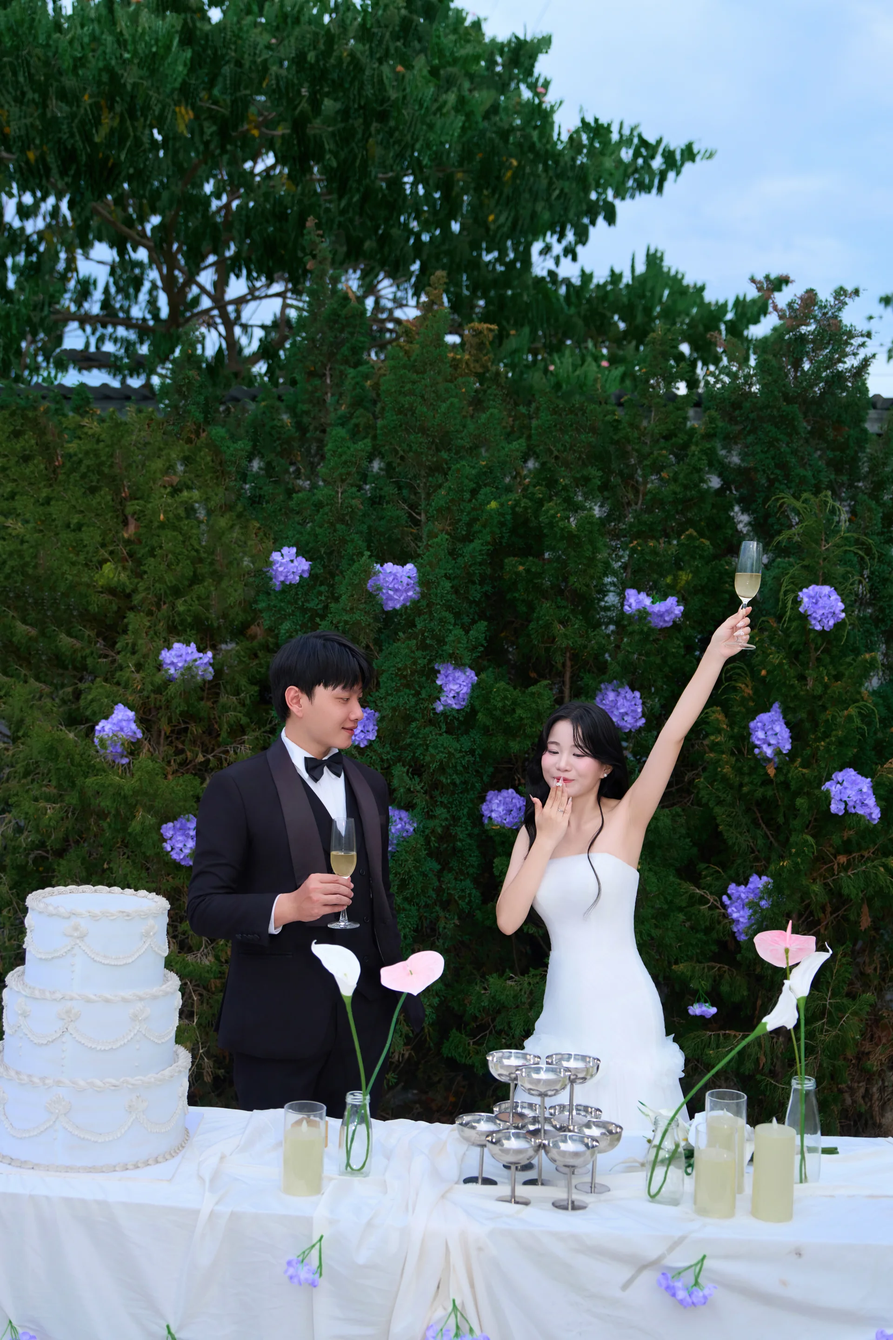
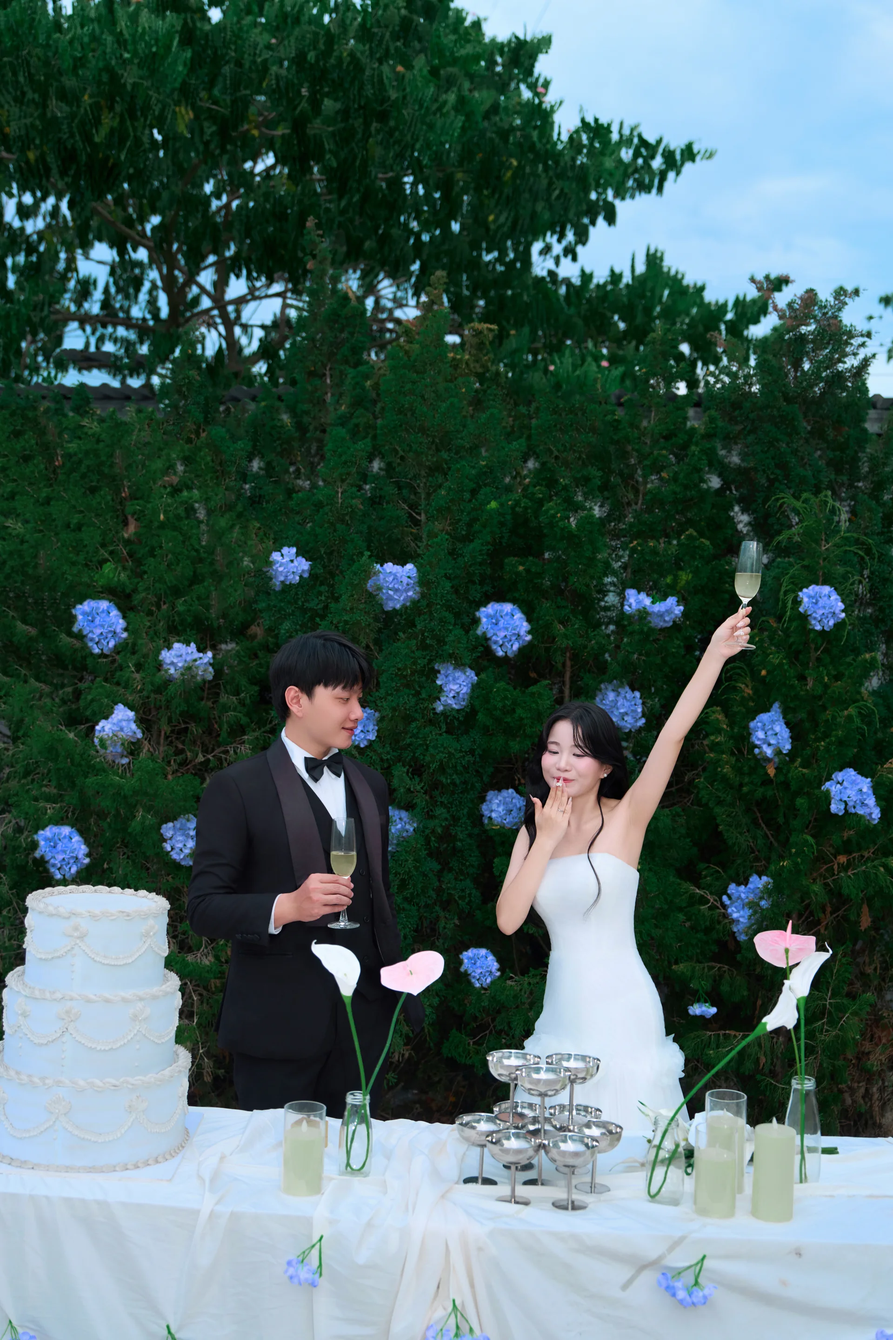
feat: update layout and optimize images

diff --git a/src/sections/bank-qr-section.jsx b/src/sections/bank-qr-section.jsx
@@ -44,7 +44,7 @@ export default function BankQrSection({ gift }) {
   }, [isQrOpen])
 
   return <section className="bg-[#e9ded2] px-5 py-20 sm:py-28" id="gifts"><SectionHeading eyebrow="With love" title="Hộp Mừng Cưới" description="Sự hiện diện và lời chúc của bạn đã là món quà quý giá nhất dành cho chúng mình. Nếu không thể đến chung vui hoặc muốn gửi thêm chút tình cảm từ xa, bạn có thể gửi qua đây nhé!" />
-    <div className="mx-auto max-w-sm"><Reveal className="bg-[#fdf9f4] p-7 text-center shadow-[0_15px_40px_rgba(91,60,48,.08)]"><p className="text-xs tracking-[.18em] text-[#a56c61] uppercase">{gift.owner}</p><button ref={qrButton} onClick={() => setIsQrOpen(true)} className="group relative mx-auto my-5 block aspect-square w-44 border-8 border-white focus-visible:outline-2 focus-visible:outline-offset-4 focus-visible:outline-[#9c6257]" aria-label="Phóng to mã QR mừng cưới"><img className="h-full w-full object-contain" src={gift.qr} alt="Mã QR mừng cưới" loading="lazy" /><span className="absolute inset-0 grid place-items-center bg-[#4a3029]/0 text-xs tracking-[.14em] text-white opacity-0 transition group-hover:bg-[#4a3029]/45 group-hover:opacity-100 group-focus-visible:bg-[#4a3029]/45 group-focus-visible:opacity-100">Phóng to</span></button><p className="font-display text-2xl text-[#4a3029]">{gift.bank}</p><div className="mt-2 flex items-center justify-center gap-2"><p className="text-sm tracking-[.1em] text-[#725f56]">{gift.account}</p><button onClick={() => copy(gift.account)} className="grid min-h-9 min-w-9 place-items-center border border-[#c9a692] text-[#82594e] transition hover:bg-[#82594e] hover:text-white focus-visible:outline-2 focus-visible:outline-offset-2 focus-visible:outline-[#9c6257]" aria-label={copied ? 'Đã sao chép số tài khoản' : 'Sao chép số tài khoản'} title={copied ? 'Đã sao chép' : 'Sao chép số tài khoản'}>{copied ? <svg viewBox="0 0 24 24" aria-hidden="true" className="h-4 w-4 fill-none stroke-current stroke-2"><path d="m5 12 4 4L19 6" /></svg> : <svg viewBox="0 0 24 24" aria-hidden="true" className="h-4 w-4 fill-none stroke-current stroke-2"><rect x="9" y="9" width="10" height="10" rx="1" /><path d="M15 9V5a1 1 0 0 0-1-1H5a1 1 0 0 0 1 1h4" /></svg>}</button></div></Reveal></div>
+    <div className="mx-auto max-w-md"><Reveal className="bg-[#fdf9f4] p-8 text-center shadow-[0_15px_40px_rgba(91,60,48,.08)]"><p className="text-xs tracking-[.18em] text-[#a56c61] uppercase">{gift.owner}</p><button ref={qrButton} onClick={() => setIsQrOpen(true)} className="group relative mx-auto my-6 block aspect-square w-52 border-8 border-white focus-visible:outline-2 focus-visible:outline-offset-4 focus-visible:outline-[#9c6257] sm:w-56" aria-label="Phóng to mã QR mừng cưới"><img className="h-full w-full object-contain" src={gift.qr} alt="Mã QR mừng cưới" loading="lazy" /><span className="absolute inset-0 grid place-items-center bg-[#4a3029]/0 text-xs tracking-[.14em] text-white opacity-0 transition group-hover:bg-[#4a3029]/45 group-hover:opacity-100 group-focus-visible:bg-[#4a3029]/45 group-focus-visible:opacity-100">Phóng to</span></button><p className="font-display text-3xl text-[#4a3029]">{gift.bank}</p><div className="mt-3 flex items-center justify-center gap-3"><p className="text-base tracking-[.1em] text-[#725f56]">{gift.account}</p><button onClick={() => copy(gift.account)} className="grid min-h-10 min-w-10 place-items-center border border-[#c9a692] text-[#82594e] transition hover:bg-[#82594e] hover:text-white focus-visible:outline-2 focus-visible:outline-offset-2 focus-visible:outline-[#9c6257]" aria-label={copied ? 'Đã sao chép số tài khoản' : 'Sao chép số tài khoản'} title={copied ? 'Đã sao chép' : 'Sao chép số tài khoản'}>{copied ? <svg viewBox="0 0 24 24" aria-hidden="true" className="h-4 w-4 fill-none stroke-current stroke-2"><path d="m5 12 4 4L19 6" /></svg> : <svg viewBox="0 0 24 24" aria-hidden="true" className="h-4 w-4 fill-none stroke-current stroke-2"><rect x="9" y="9" width="10" height="10" rx="1" /><path d="M15 9V5a1 1 0 0 0-1-1H5a1 1 0 0 0 1 1h4" /></svg>}</button></div></Reveal></div>
     <AnimatePresence>{isQrOpen && <motion.div role="dialog" aria-modal="true" aria-label="Mã QR mừng cưới phóng to" className="fixed inset-0 z-50 grid place-items-center bg-[#201310]/90 p-5" initial={{ opacity: 0 }} animate={{ opacity: 1 }} exit={{ opacity: 0 }} onClick={closeQr}><button className="absolute right-5 top-5 min-h-11 min-w-11 text-3xl text-white focus-visible:outline-2 focus-visible:outline-white" onClick={closeQr} aria-label="Đóng mã QR">×</button><motion.img initial={{ scale: .94 }} animate={{ scale: 1 }} exit={{ scale: .94 }} onClick={event => event.stopPropagation()} src={gift.qr} alt="Mã QR mừng cưới phóng to" className="max-h-[82svh] max-w-full bg-white object-contain p-3" /></motion.div>}</AnimatePresence>
   </section>
 }

diff --git a/src/sections/gallery-section.jsx b/src/sections/gallery-section.jsx
@@ -3,6 +3,13 @@ import { AnimatePresence, motion } from 'motion/react'
 import { Reveal, SectionHeading } from '../components/reveal'
 import { wedding } from '../data/wedding'
 
+const cropPositions = {
+  '/images/DSC05702.webp': 'object-[50%_35%]',
+  '/images/DSC05891.webp': 'object-[50%_35%]',
+  '/images/DSC06025.webp': 'object-[50%_35%]',
+  '/images/DSC06464.webp': 'object-[50%_35%]',
+}
+
 export default function GallerySection() {
   const [selectedIndex, setSelectedIndex] = useState(null)
   const dialog = useRef(null)
@@ -32,8 +39,8 @@ export default function GallerySection() {
     return () => { document.body.style.overflow = previousOverflow; window.removeEventListener('keydown', onKeyDown) }
   }, [selectedIndex])
   return <section className="section-shell" id="gallery"><SectionHeading eyebrow="Captured moments" title="Những khoảnh khắc của chúng mình" />
-    <div className="mx-auto grid max-w-6xl grid-cols-2 gap-3 sm:grid-cols-3 md:grid-cols-5">
-      {wedding.gallery.map((photo, index) => <Reveal key={photo + index}><button onClick={event => { openButton.current = event.currentTarget; setSelectedIndex(index) }} className="group relative block aspect-square w-full overflow-hidden focus-visible:outline-2 focus-visible:outline-offset-4 focus-visible:outline-[#9c6257]" aria-label={`Phóng to ảnh cưới ${index + 1}`}><img src={photo} alt={`Khoảnh khắc cưới ${index + 1}`} loading="lazy" className="h-full w-full object-cover transition duration-500 group-hover:scale-110 group-focus-visible:scale-110" /><span className="absolute inset-0 bg-[#4a3029]/0 transition group-hover:bg-[#4a3029]/20" /></button></Reveal>)}
+    <div className="mx-auto grid max-w-7xl grid-cols-2 gap-3 sm:grid-cols-3 md:grid-cols-4">
+      {wedding.gallery.map((photo, index) => <Reveal key={photo + index}><button onClick={event => { openButton.current = event.currentTarget; setSelectedIndex(index) }} className="group relative block aspect-square w-full overflow-hidden focus-visible:outline-2 focus-visible:outline-offset-4 focus-visible:outline-[#9c6257]" aria-label={`Phóng to ảnh cưới ${index + 1}`}><img src={photo} alt={`Khoảnh khắc cưới ${index + 1}`} loading="lazy" className={`h-full w-full object-cover transition duration-500 group-hover:scale-110 group-focus-visible:scale-110 ${cropPositions[photo] ?? 'object-center'}`} /><span className="absolute inset-0 bg-[#4a3029]/0 transition group-hover:bg-[#4a3029]/20" /></button></Reveal>)}
     </div>
     <AnimatePresence>{selected && <motion.div ref={dialog} role="dialog" aria-modal="true" aria-label="Ảnh cưới phóng to" className="fixed inset-0 z-50 grid place-items-center bg-[#201310]/90 p-5" initial={{ opacity: 0 }} animate={{ opacity: 1 }} exit={{ opacity: 0 }} onClick={close}><button ref={closeButton} className="absolute right-5 top-5 min-h-11 min-w-11 text-3xl text-white focus-visible:outline-2 focus-visible:outline-white" onClick={close} aria-label="Đóng ảnh">×</button><button onClick={event => { event.stopPropagation(); move(-1) }} aria-label="Ảnh trước" className="absolute left-3 min-h-11 min-w-11 text-4xl text-white sm:left-8">‹</button><motion.img initial={{ scale: .94 }} animate={{ scale: 1 }} exit={{ scale: .94 }} onClick={event => event.stopPropagation()} src={selected} alt={`Ảnh cưới ${selectedIndex + 1}`} className="max-h-[86svh] max-w-full object-contain" /><button onClick={event => { event.stopPropagation(); move(1) }} aria-label="Ảnh tiếp theo" className="absolute right-3 min-h-11 min-w-11 text-4xl text-white sm:right-8">›</button></motion.div>}</AnimatePresence>
   </section>

diff --git a/src/sections/hero-section.jsx b/src/sections/hero-section.jsx
@@ -10,12 +10,12 @@ function getCountdown(startAt, now) {
 
 function CountdownCard({ ceremony, timeLeft }) {
   return (
-    <div className="border border-white/30 bg-[#2e1c18]/35 px-2 py-3 backdrop-blur-sm sm:px-3 sm:py-4">
-      <p className="font-display text-lg text-[#ffe7d8] sm:text-xl">{ceremony.title}</p>
-      <p className="mt-1 text-[10px] tracking-[0.12em] text-white/75 uppercase">{ceremony.date}</p>
-      {timeLeft ? <div className="mt-3 grid grid-cols-4 border-t border-white/20 pt-3">
-        {Object.entries(timeLeft).map(([unit, value]) => <div key={unit}><strong className="block font-display text-lg sm:text-xl">{String(value).padStart(2, '0')}</strong><span className="text-[7px] tracking-[0.08em] text-white/65 uppercase">{unit}</span></div>)}
-      </div> : <p className="mt-3 border-t border-white/20 pt-3 text-xs leading-5 text-[#ffe8da]">Cảm ơn bạn đã dành tình cảm và cùng lưu giữ niềm vui của chúng mình.</p>}
+    <div className="border border-white/30 bg-[#2e1c18]/35 px-3 py-4 backdrop-blur-sm sm:px-4 sm:py-5">
+      <p className="font-display text-xl text-[#ffe7d8] sm:text-2xl">{ceremony.title}</p>
+      <p className="mt-1.5 text-[10px] tracking-[0.12em] text-white/75 uppercase sm:text-[11px]">{ceremony.date}</p>
+      {timeLeft ? <div className="mt-4 grid grid-cols-4 border-t border-white/20 pt-4">
+        {Object.entries(timeLeft).map(([unit, value]) => <div key={unit}><strong className="block font-display text-xl sm:text-2xl">{String(value).padStart(2, '0')}</strong><span className="text-[7px] tracking-[0.08em] text-white/65 uppercase sm:text-[8px]">{unit}</span></div>)}
+      </div> : <p className="mt-4 border-t border-white/20 pt-4 text-sm leading-6 text-[#ffe8da]">Cảm ơn bạn đã dành tình cảm và cùng lưu giữ niềm vui của chúng mình.</p>}
     </div>
   )
 }
@@ -44,8 +44,8 @@ export default function HeroSection() {
           <p className="font-display whitespace-nowrap text-[1.45rem] leading-none tracking-[-0.04em] sm:text-6xl lg:text-7xl">{wedding.groom.name} <span className="mx-2 italic text-[#e9b89d] sm:mx-4">&amp;</span> {wedding.bride.name}</p>
           <p className="mt-8 text-sm tracking-[0.22em] text-[#fff7ef] uppercase">{wedding.displayDate}</p>
         </div>
-        <p className="mt-64 text-[9px] tracking-[0.28em] text-[#f4d8c7] uppercase sm:mt-36 sm:translate-y-10">Đếm ngược ngày vui</p>
-        <div className="mx-auto mt-5 grid max-w-3xl gap-2 sm:translate-y-10 sm:grid-cols-2 sm:gap-3">
+        <p className="mt-64 text-[11px] tracking-[0.28em] text-[#f4d8c7] uppercase sm:mt-36 sm:translate-y-10 sm:text-xs">Đếm ngược ngày vui</p>
+        <div className="mx-auto mt-5 grid max-w-3xl gap-3 sm:translate-y-10 sm:grid-cols-2 sm:gap-4">
           {wedding.ceremonies.map(ceremony => <CountdownCard key={ceremony.title} ceremony={ceremony} timeLeft={getCountdown(ceremony.startAt, now)} />)}
         </div>
         <a href="#event" className="mt-9 inline-flex min-h-11 items-center border border-[#f2c9b3] px-6 text-xs font-medium tracking-[0.2em] text-[#fff7ef] uppercase transition hover:bg-[#f2c9b3] hover:text-[#4a3029] focus-visible:outline-2 focus-visible:outline-offset-4 focus-visible:outline-white sm:translate-y-10">Xem lời mời</a>

diff --git a/src/data/wedding.js b/src/data/wedding.js
@@ -3,13 +3,16 @@ export const wedding = {
   bride: { name: 'Nguyễn Thảo', role: 'Cô dâu', photo: '/images/bride.webp' },
   displayDate: '26 . 09 . 2026  •  01 . 10 . 2026',
   ceremonies: [
-    { title: 'Vu Quy', startAt: '2026-09-26T10:30:00+07:00', date: '10:30 · Thứ Bảy, 26.09.2026', venue: 'Cử hành tại tư gia nữ\nThăng Điền, Đà Nẵng', mapUrl: 'https://maps.app.goo.gl/W4fzK1KtSxzHCv2M9' },
+    { title: 'Vu Quy', startAt: '2026-09-26T10:00:00+07:00', date: '10:00 · Thứ Bảy, 26.09.2026', venue: 'Cử hành tại tư gia nữ\nThăng Điền, Đà Nẵng', mapUrl: 'https://maps.app.goo.gl/W4fzK1KtSxzHCv2M9' },
     { title: 'Thành Hôn', startAt: '2026-10-01T11:00:00+07:00', date: '11:00 · Thứ Năm, 01.10.2026', venue: 'Cử hành tại Sảnh A - Tầng 1 - Khách sạn Mê Kông\n66 Lê Duẩn, Phường Đông Hà, Quảng Trị', mapUrl: 'https://maps.app.goo.gl/C9f2EC2R3LoofHZr6' },
   ],
   attireNote: 'Chỉ cần mặc bộ đẹp nhất và tới quẩy hết mình cùng bọn mình nha!',
-  gallery: Array.from({ length: 10 }, (_, index) => `/images/gallery-${String(index + 1).padStart(2, '0')}.webp`),
-  gifts: {
-    groom: { owner: 'Mừng cưới', bank: 'Viettinbank', account: '108881436439', qr: '/images/qr.jpg' },
-    bride: { owner: 'Mừng cưới', bank: 'Vietcombank', account: '1022565314', qr: '/images/qr-bride.jpg' },
-  },
+  gallery: [
+    'DSC06642', 'DSC06710', 'DSC06774', 'DSC06838',
+    'DSC06483', 'DSC06530', 'DSC06542', 'DSC06566',
+    'DSC06288', 'DSC06329', 'DSC06367', 'DSC06394', 'DSC06433', 'DSC06464',
+    'DSC05891', 'DSC06025', 'DSC06134', 'DSC06254', 'DSC06270',
+    'DSC05606', 'DSC05670', 'DSC05702', 'DSC05759', 'DSC05838',
+  ].map((image) => `/images/${image}.webp`),
+  gift: { owner: 'Mừng cưới', bank: 'Viettinbank', account: '108881436439', qr: '/images/qr.jpg' },
 }

diff --git a/src/app.jsx b/src/app.jsx
@@ -1,35 +1,14 @@
-import { useEffect, useState } from 'react'
-import { BankQrSection, CoupleSection, EventDetailsSection, GallerySection, HeroSection, InvitationSelector, ThankYouSection, WishesSection } from './sections'
+import { BankQrSection, CoupleSection, EventDetailsSection, GallerySection, HeroSection, ThankYouSection, WishesSection } from './sections'
 import { wedding } from './data/wedding'
 
-function getInvitationSide() {
-  const path = window.location.pathname.replace(/\/+$/, '') || '/'
-  return path === '/groom' || path === '/bride' ? path.slice(1) : null
-}
-
 export default function App() {
-  const [invitationSide, setInvitationSide] = useState(getInvitationSide)
-
-  useEffect(() => {
-    const syncInvitationSide = () => setInvitationSide(getInvitationSide())
-    window.addEventListener('popstate', syncInvitationSide)
-    return () => window.removeEventListener('popstate', syncInvitationSide)
-  }, [])
-
-  const selectInvitation = (side) => {
-    window.history.pushState({}, '', `/${side}`)
-    setInvitationSide(side)
-  }
-
-  if (!invitationSide) return <InvitationSelector onSelect={selectInvitation} />
-
   return (
     <main className="overflow-hidden bg-[#f7f0e8] text-[#40332d]">
       <HeroSection />
       <CoupleSection />
       <EventDetailsSection />
       <GallerySection />
-      <BankQrSection gift={wedding.gifts[invitationSide]} />
+      <BankQrSection gift={wedding.gift} />
       <WishesSection />
       <ThankYouSection />
     </main>

diff --git a/src/sections/couple-section.jsx b/src/sections/couple-section.jsx
@@ -7,7 +7,7 @@ export default function CoupleSection() {
   return <section className="section-shell" id="couple"><SectionHeading eyebrow="Our story" title="Hai tâm hồn, một hành trình" />
     <div className="mx-auto grid max-w-5xl gap-6 md:grid-cols-2">
       {[wedding.groom, wedding.bride].map((person, index) => <Reveal key={person.role} className="group overflow-hidden bg-[#fcf9f4] shadow-[0_18px_50px_rgba(91,60,48,0.09)]">
-        <div className="aspect-[4/3] overflow-hidden"><img src={person.photo} alt={person.role} className={`h-full w-full object-cover transition duration-700 group-hover:scale-105 ${person.role === 'Chú rể' ? 'object-[50%_45%]' : 'object-center'}`} /></div>
+        <div className="aspect-[3/4] overflow-hidden"><img src={person.photo} alt={person.role} className={`h-full w-full -translate-x-[1.5%] scale-[1.03] object-cover transition duration-700 group-hover:scale-105 ${person.role === 'Cô dâu' ? 'object-[50%_95%]' : 'object-[50%_80%]'}`} /></div>
         <div className="p-7 sm:p-9"><p className="text-xs tracking-[0.24em] text-[#a56c61] uppercase">{person.role}</p><h3 className="mt-2 font-display text-5xl leading-none tracking-[-0.03em] text-[#4a3029]">{person.name}</h3><p className="mt-5 text-sm leading-7 text-[#725f56]">{bios[index]}</p></div>
       </Reveal>)}
     </div>

diff --git a/src/components/reveal.jsx b/src/components/reveal.jsx
@@ -14,11 +14,11 @@ export function Reveal({ children, className = '' }) {
   )
 }
 
-export function SectionHeading({ eyebrow, title, description }) {
+export function SectionHeading({ eyebrow, title, description, titleClassName = 'text-4xl sm:text-5xl' }) {
   return (
     <Reveal className="mx-auto mb-12 max-w-xl text-center">
       <p className="mb-3 text-xs font-medium tracking-[0.28em] text-[#a56c61] uppercase">{eyebrow}</p>
-      <h2 className="font-display text-4xl leading-tight text-[#4a3029] sm:text-5xl">{title}</h2>
+      <h2 className={`font-display leading-tight text-[#4a3029] ${titleClassName}`}>{title}</h2>
       {description && <p className="mt-4 text-sm leading-7 text-[#725f56] sm:text-base">{description}</p>}
     </Reveal>
   )

diff --git a/vite.config.js b/vite.config.js
@@ -1,17 +1,5 @@
-import { resolve } from 'node:path'
 import { defineConfig } from 'vite'
 import react from '@vitejs/plugin-react'
 import tailwindcss from '@tailwindcss/vite'
 
-export default defineConfig({
-  plugins: [react(), tailwindcss()],
-  build: {
-    rollupOptions: {
-      input: {
-        main: resolve(import.meta.dirname, 'index.html'),
-        groom: resolve(import.meta.dirname, 'groom.html'),
-        bride: resolve(import.meta.dirname, 'bride.html'),
-      },
-    },
-  },
-})
+export default defineConfig({ plugins: [react(), tailwindcss()] })

diff --git a/src/sections/index.js b/src/sections/index.js
@@ -5,4 +5,3 @@ export { default as GallerySection } from './gallery-section'
 export { default as BankQrSection } from './bank-qr-section'
 export { default as ThankYouSection } from './thank-you-section'
 export { default as WishesSection } from './wishes-section'
-export { default as InvitationSelector } from './invitation-selector'

diff --git a/docs/system-architecture.md b/docs/system-architecture.md
@@ -11,8 +11,7 @@ index.html
   -> src/main.jsx
      -> MotionConfig(reducedMotion="user")
         -> App
-           -> / (invitation selector)
-           -> /groom or /bride: Hero | Couple | Event Details | Gallery | Bank QR | Wishes | Thank You
+           -> Hero | Couple | Event Details | Gallery | Bank QR | Wishes | Thank You
               -> shared wedding data and reusable reveal components
 
 Browser -> /api/wishes (Cloudflare Pages Function) -> Turnstile Siteverify
@@ -23,19 +22,17 @@ Browser -> /api/wishes (Cloudflare Pages Function) -> Turnstile Siteverify
 
 | Area | Responsibility |
 | --- | --- |
-| `src/app.jsx` | Selects the root invitation chooser or the shared invitation page based on the URL path. |
-| `src/data/wedding.js` | Holds editable invitation content, image URLs, map URL, and groom/bride QR configuration. |
-| `src/sections/invitation-selector.jsx` | Displays the polished root page and links guests to `/groom` or `/bride`. |
+| `src/app.jsx` | Renders the ordered invitation sections inside the visual shell. |
+| `src/data/wedding.js` | Holds editable invitation content, image URLs, map URL, and one QR configuration. |
 | `src/components/reveal.jsx` | Provides viewport-triggered entrance animation and shared section heading markup. |
 | `src/sections/hero-section.jsx` | Calculates and displays the live countdown, couple names, and event anchor link. |
 | `src/sections/event-details-section.jsx` | Shows ceremony details and opens the configured Google Maps URL in a new tab. |
 | `src/sections/gallery-section.jsx` | Displays gallery thumbnails and manages local selected-image modal state. |
-| `src/sections/bank-qr-section.jsx` | Renders the QR card selected by the current invitation URL. |
+| `src/sections/bank-qr-section.jsx` | Renders the shared gift QR card, QR lightbox, and account-number copy control. |
 | `src/sections/wishes-section.jsx` | Renders the guest-wish form and approved-wish list. |
 | `functions/api/wishes.js` | Validates Turnstile server-side and reads/writes the Supabase table with a server-only credential. |
 | `supabase/wishes.sql` | Creates and locks down the moderated `wishes` table. |
 | `src/styles.css` | Imports Tailwind, defines font tokens, global layout rules, and reduced-motion CSS overrides. |
-| `groom.html`, `bride.html` | Separate Vite entry documents so Cloudflare Pages serves direct groom and bride links without falling back to `/`. |
 
 ## Build and Dependencies
 
@@ -44,7 +41,7 @@ Browser -> /api/wishes (Cloudflare Pages Function) -> Turnstile Siteverify
 ## External Boundaries
 
 - Google Fonts provides Bodoni Moda and Jost.
-- Local `public/images` assets host the wedding images and the two side-specific QR codes.
+- Local `public/images` assets host the wedding images and shared QR code.
 - Google Maps opens from the event-details link.
 - Cloudflare Turnstile validates each submitted wish before storage.
 - Supabase stores guest wishes as approved by default; the public endpoint returns them immediately after Turnstile validation.

diff --git a/docs/development-roadmap.md b/docs/development-roadmap.md
@@ -9,7 +9,7 @@ This roadmap tracks the single-page wedding invitation for Ngọc Đạt and Ngu
 | Phase | Status | Delivered outcome |
 | --- | --- | --- |
 | Foundation and content contract | Complete | Vite, React, Tailwind, Motion, and centralized wedding data are in place. |
-| Invitation sections and interactions | Complete | Hero countdown, couple story, separate Vu Quy and Thành Hôn details, gallery lightbox, two invitation links with side-specific QR, and closing section are implemented. |
+| Invitation sections and interactions | Complete | Hero countdown, couple story, separate Vu Quy and Thành Hôn details, gallery lightbox, one shared QR card, and closing section are implemented. |
 | Quality and release | In progress | Production build and browser validation remain release gates. |
 | Guest wishes | In progress | Form, moderated display, Turnstile validation, Supabase schema, and Pages Function are ready; cloud bindings await owner configuration. |
 
@@ -18,14 +18,13 @@ This roadmap tracks the single-page wedding invitation for Ngọc Đạt and Ngu
 - Vietnamese landing page for Ngọc Đạt and Nguyễn Thảo, with Vu Quy on 26 September 2026 in Thăng Điền, Đà Nẵng and Thành Hôn on 1 October 2026 in Đông Hà, Quảng Trị.
 - Smooth in-page navigation, Google Maps outbound links for both ceremonies, and responsive layouts.
 - Ten-image gallery with click-to-open modal and Escape/backdrop/close-button dismissal.
-- Root invitation selector plus `/groom` and `/bride` links; both invitation pages share all content and differ only in payment information.
-- A gift QR card populated from the invitation-side data, accompanied by guest-first gift and thank-you messaging.
+- One public invitation at the root domain with a shared gift QR card and guest-first gift messaging.
 - A guest-wish form plus public display of wishes. New submissions are visible immediately and may be deleted in Supabase if needed.
 - Reduced-motion support through Motion's user preference setting and CSS media query.
 
 ## Next Milestone
 
-Validate a production wish submission, display, and deletion. Share the appropriate `/groom` or `/bride` link with each guest group.
+Validate a production wish submission, display, and deletion before sharing the root invitation URL with guests.
 
 ## References
 

diff --git a/docs/project-changelog.md b/docs/project-changelog.md
@@ -14,8 +14,6 @@ All notable project changes are recorded here.
 - Motion reveal effects and gallery modal animation.
 - Keyboard and pointer controls to close the gallery modal, plus visible keyboard focus styling.
 - Moderated guest-wish section, Supabase table schema, and Cloudflare Pages Function API protected by Turnstile.
-- A polished root invitation selector that directs guests to the groom or bride invitation.
-- Dedicated Vite HTML entries for direct `/groom` and `/bride` visits on Cloudflare Pages.
 
 ### Changed
 
@@ -24,12 +22,10 @@ All notable project changes are recorded here.
 - Split the ceremony details into Vu Quy in Thăng Điền, Đà Nẵng on 26 September 2026 and Thành Hôn in Đông Hà, Quảng Trị on 1 October 2026; each has its own Google Maps link.
 - Revised the gift invitation and closing thank-you copy to emphasize that guests' presence and wishes are most valued.
 - Replaced two QR cards with one shared QR image and added QR zoom plus an account-number copy icon.
-- Split the public invitation into `/groom` and `/bride` while retaining one shared page implementation. The groom page uses the existing QR; the bride page uses Vietcombank account `1022565314` and `qr-bride.jpg`.
 - Changed guest wishes to show immediately after submission; unsuitable wishes can be deleted manually in Supabase.
-- Refined the invitation selector by raising the bride card image crop and removing its closing helper line.
-- Stabilized invitation-card hover behavior: cards no longer shift position; only the background photo scales subtly.
-- Made selector navigation client-side so selecting a side changes the invitation without requiring a full-page request.
-- Replaced fallback-dependent route rewrites with dedicated entry documents, preventing Cloudflare Pages from redirecting invitation links to the selector.
+- Restored one root invitation page with `qr.jpg` as the shared QR code, removed side-specific invitation routes, increased the QR card scale, and moved Vu Quy to 10:00.
+- Replaced the ten placeholder gallery images with twenty-three optimized wedding photos supplied in `source-images/`.
+- Expanded the gallery to twenty-four images with `DSC06367`, enlarged the desktop grid, and corrected four portrait crops to preserve faces.
 
 ### Notes
 
